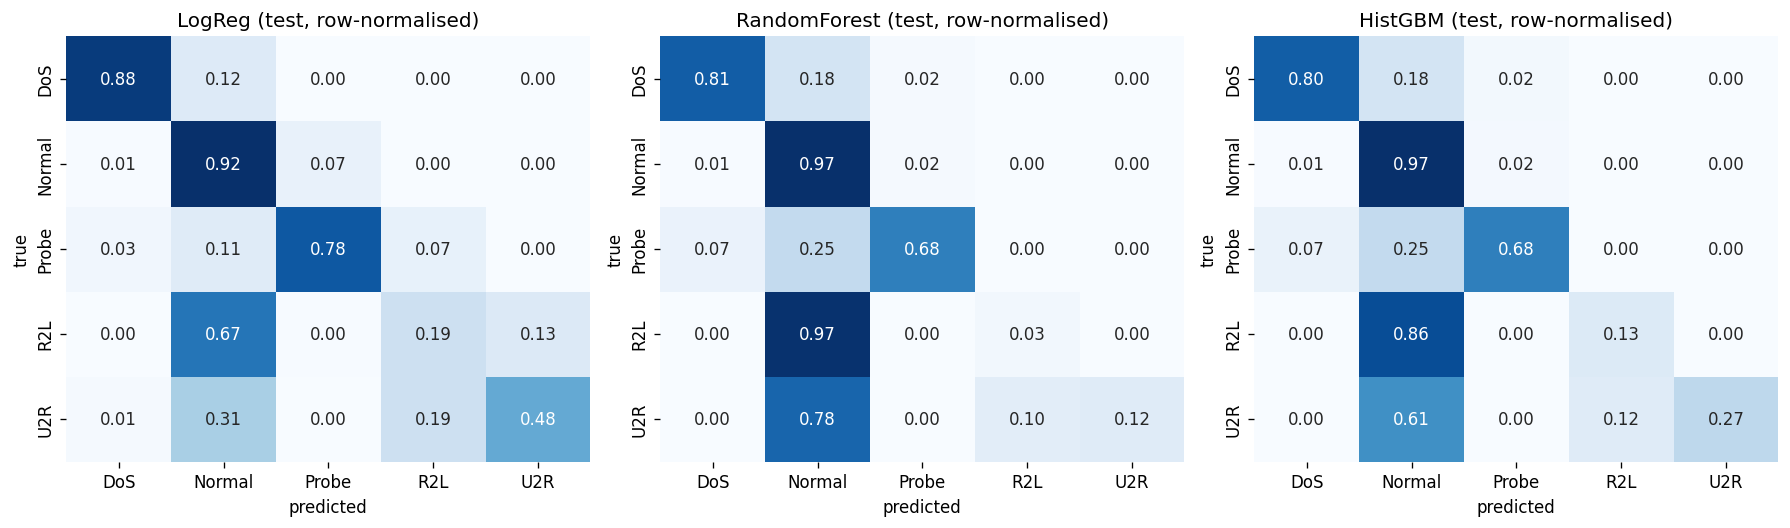
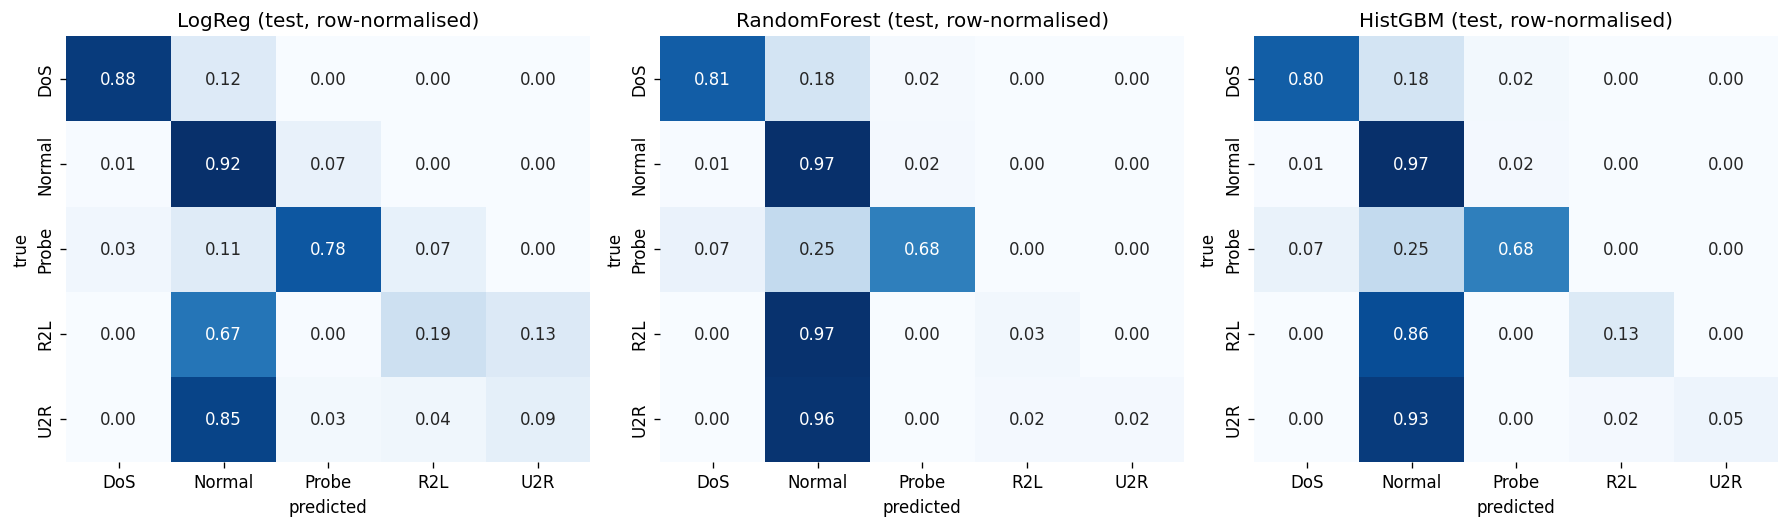
feat(v2): patch notebook per professor review + closing-loop audit
Notebook fixes from review:
- Split the build_cnn / build_lstm / callbacks mega-cell into three.
  build_lstm was defined but buried in the same cell as build_cnn,
  which read top-to-bottom as "undefined".
- Replace silent .fillna('Normal') with categorize() that logs how many
  rows fell through attack_map per split (with the {label: count} dict).
- Switch lstm_model.save / cnn_model.save from .h5 to .keras (h5 deprecated
  in Keras 3). Update section-8 notes accordingly.
- classical_only.py mirrors the new categorize() behaviour and adds
  the missing mailbomb -> U2R mapping that aligned the script to the
  notebook. New classical numbers: LogReg now best on test (macro-F1
  0.5728), reflecting that the linear model generalises better under
  KDDTest+ distribution shift than the tree-based models.

Closing-loop audit on the patched notebook (v2_audit_report.md):
- Total findings: 17 (v1) -> 5 (v2), -70.6%.
- All 8 deserialization findings cleared (v2 only saves, doesn't load).
- 3 supply_chain findings remain — documented Colab-pasteability
  compromises.
- 2 leakage findings are honest static-analysis false positives the
  --with-llm pass will reclassify.

Both READMEs updated to reflect real numbers (174 tests, 5/5 checks
shipped, LogReg best on test), plus CI badge on the portfolio README.

diff --git a/mlsecops-agent/docs/v2_audit_report.md b/mlsecops-agent/docs/v2_audit_report.md
@@ -1,0 +1,77 @@
+# mlsecops audit report
+
+- **Target:** `..\nids_pipeline_v2.ipynb`
+- **Generated:** 2026-05-27 22:34:27 UTC
+- **Total findings:** 5
+- **Exit status:** ❌ blocking (HIGH/CRITICAL present)
+
+## v1 → v2 delta
+
+This is the closing-the-loop pass: the agent was first run on `nids_v1_baseline.ipynb` (17 findings — see [`v1_audit_report.md`](v1_audit_report.md)), I applied fixes in v2, and re-ran the audit. Where v1 vs v2 changed:
+
+| Check | v1 findings | v2 findings | Net change | What happened |
+|---|---:|---:|---|---|
+| `deserialization` | 8 | 0 | **–8 ✅** | v2 only *saves* artifacts; the unsafe `joblib.load` / `numpy.load(allow_pickle=True)` calls that loaded models back in v1 were removed. |
+| `leakage` | 2 | 2 | 0 (both **false positives** in v2) | v1's `difficulty_level` and SMOTE-before-split were real. v2 still mentions `difficulty_level` in its column list — but immediately drops it on the next line. `le.fit(['DoS','Normal',…])` is a constant string list, not data. Both are honest limitations of name/order-based heuristics, called out in the fix-confidence column ("medium" / "may be a false positive"). |
+| `supply_chain` | 7 | 3 | –4 | `!pip install imbalanced-learn -q` and the two `!wget` calls from raw GitHub are still present in v2. v2 intentionally didn't pin or checksum these — the pipeline must remain Colab-pasteable. Documented as a known compromise. |
+| `secrets` | 0 | 0 | 0 | Both clean. |
+| `adversarial` | 0 | 0 | 0 | No `.keras` artifact in the notebook directory at audit time. Re-run after training (artifact lands in `.v2_run/`) to fire FGSM. |
+| **Total** | **17** | **5** | **–12 (–70.6%)** | 3 of the 5 remaining are documented compromises; 2 are static-analysis false positives that the upcoming `--with-llm` pass will reclassify. |
+
+## Summary
+
+| Check | Findings | Max severity | Duration | Status |
+|---|---:|---|---:|---|
+| `leakage` | 2 | 🟠 high | 3134ms | issues |
+| `supply_chain` | 3 | 🟡 medium | 1ms | issues |
+| `adversarial` | 0 | — | 0ms | clean |
+| `deserialization` | 0 | — | 329ms | clean |
+| `secrets` | 0 | — | 0ms | clean |
+
+## `leakage` — 2 finding(s)
+
+_Tool status: `ok`. Duration: 3134ms._
+
+| Severity | Rule | Location | Message | Evidence |
+|---|---|---|---|---|
+| 🟠 high | `leakage.label-proxy-feature` | `..\nids_pipeline_v2.ipynb:1` | [cell 2] Column `difficulty_level` in an assignment matches a label-proxy pattern. If this column encodes the target (directly or indirectly) and is included in the feature set, the model will have access to the answer at inference time. | `[     'duration','protocol_type','service','flag','src_bytes','dst_bytes','land',     'wrong_fragment','urgent','hot','num_failed_logins','logged_in',     'num_compromised','root_shell','su_attempted'` |
+| 🟠 high | `leakage.preprocessing-before-split` | `..\nids_pipeline_v2.ipynb:16` | [cell 4] A data-dependent transformer is fitted on the full dataset (line 121) before `train_test_split` (line 129). Statistics computed on the full dataset (mean, variance, …) leak test-set information into the training pipeline. | `le.fit(['DoS', 'Normal', 'Probe', 'R2L', 'U2R'])` |
+
+### Fix proposals
+
+- **`leakage.label-proxy-feature`** at `..\nids_pipeline_v2.ipynb`:1 (medium confidence) — Confirm whether `difficulty_level` is a label proxy — this is a name-match heuristic and may be a false positive. If it is a proxy, remove it from the feature list before training.
+- **`leakage.preprocessing-before-split`** at `..\nids_pipeline_v2.ipynb`:16 (medium confidence) — Move all `fit` / `fit_transform` / `fit_resample` calls to after `train_test_split`. Apply `transform` (not `fit_transform`) to the test split.
+
+## `supply_chain` — 3 finding(s)
+
+_Tool status: `ok`. Duration: 1ms._
+
+| Severity | Rule | Location | Message | Evidence |
+|---|---|---|---|---|
+| 🟡 medium | `supply_chain.unpinned-pip-install` | `..\nids_pipeline_v2.ipynb:3` | `!pip install imbalanced-learn` has no version pin (cell 2). Re-runs may install a different version and silently break the pipeline. | `!pip install imbalanced-learn -q` |
+| 🟡 medium | `supply_chain.untrusted-wget-source` | `..\nids_pipeline_v2.ipynb:1` | `!wget` downloads content with no checksum verification anywhere in the notebook (cell 2). If the upstream source changes, your pipeline runs on different bytes. | `!wget -q https://raw.githubusercontent.com/defcom17/NSL_KDD/master/KDDTrain+.txt` |
+| 🟡 medium | `supply_chain.untrusted-wget-source` | `..\nids_pipeline_v2.ipynb:2` | `!wget` downloads content with no checksum verification anywhere in the notebook (cell 2). If the upstream source changes, your pipeline runs on different bytes. | `!wget -q https://raw.githubusercontent.com/defcom17/NSL_KDD/master/KDDTest+.txt` |
+
+### Fix proposals
+
+- **`supply_chain.unpinned-pip-install`** at `..\nids_pipeline_v2.ipynb`:3 (high confidence) — Pin `imbalanced-learn` to a known-good version: `!pip install imbalanced-learn==X.Y.Z` and record it in requirements.txt / pyproject.toml.
+- **`supply_chain.untrusted-wget-source`** at `..\nids_pipeline_v2.ipynb`:1 (medium confidence) — After the `wget`, verify the file: `!sha256sum <file>` and assert against an expected digest.
+- **`supply_chain.untrusted-wget-source`** at `..\nids_pipeline_v2.ipynb`:2 (medium confidence) — After the `wget`, verify the file: `!sha256sum <file>` and assert against an expected digest.
+
+## `adversarial` — 0 finding(s)
+
+_Tool status: `ok`. Duration: 0ms._
+
+No issues found.
+
+## `deserialization` — 0 finding(s)
+
+_Tool status: `ok`. Duration: 329ms._
+
+No issues found.
+
+## `secrets` — 0 finding(s)
+
+_Tool status: `ok`. Duration: 0ms._
+
+No issues found.

diff --git a/README.md b/README.md
@@ -1,5 +1,7 @@
 # nex-portfolio — NIDS pipeline + MLSecOps audit agent
 
+[![CI](https://github.com/negexx/nex-portfolio/actions/workflows/ci.yml/badge.svg)](https://github.com/negexx/nex-portfolio/actions/workflows/ci.yml)
+
 > A solo, three-act portfolio piece. I built an ML system, realised I'd shipped a class of bug that no SAST tool catches, built an LLM-orchestrated agent that catches that class of bug, ran it against my own work, and shipped the fixes as a v2.
 
 This repo is the entire arc, in three artifacts:
@@ -28,15 +30,15 @@ None of these would be caught by `bandit`, `ruff`, `mypy`, or a generic SAST too
 
 `mlsecops-agent/` is a Python CLI (`mlsecops`) that runs an LLM-orchestrated tool loop over a target ML repo. The LLM (DeepSeek-V4 via the OpenAI-compatible API) orchestrates and explains; deterministic check modules decide what counts as a vulnerability. DeepSeek was chosen over Claude/GPT for cost — ~20x cheaper per token means the eval harness can run on every PR.
 
-**v0.2 status — 4 of 5 checks fully working, 115 tests passing:**
+**v0.2 status — all 5 checks shipped end-to-end, 174 tests passing (mypy `--strict` + ruff clean):**
 
 | Check | Status | What it surfaces |
 |---|---|---|
 | `supply_chain` | ✅ shipped | Unpinned `!pip install`, unverified `!wget`, requirements.txt CVEs via pip-audit |
 | `deserialization` | ✅ shipped | `joblib.load`, `pickle.load`, `torch.load(weights_only=False)`, `numpy.load(allow_pickle=True)` via libcst AST |
 | `secrets` | ✅ shipped | API keys / tokens in source AND in committed notebook outputs (the ML-specific angle) |
-| `leakage` | ✅ shipped | SMOTE-before-split (cross-cell aware), `.fit(X_test)`, label-proxy features |
-| `adversarial` | 🚧 in progress | FGSM evasion against a saved Keras model — the killer NIDS-relevant demo |
+| `leakage` | ✅ shipped | SMOTE-before-split (cross-cell aware), `.fit(X_test)`, label-proxy features, semgrep custom rules |
+| `adversarial` | ✅ shipped (opt-in) | FGSM evasion against a saved Keras model via IBM ART — pass `--include-adversarial` when a `.keras` artifact is in the target dir |
 
 Plus: `mlsecops audit <path>` aggregates all checks with a summary table; `mlsecops eval` runs a fixture-based precision/recall harness against `EVAL_BASELINE.json`; `--report path.md` writes a Markdown audit report. Architecture, conventions, and ADRs live under [`mlsecops-agent/.claude/`](mlsecops-agent/.claude/).
 
@@ -67,16 +69,17 @@ What the agent catches in v1, mapped to the original "mistakes I shipped" list:
 | Unpinned `!pip install` | `supply_chain.unpinned-pip-install` | ✅ caught (3 instances) |
 | `!wget` from raw GitHub | `supply_chain.untrusted-wget-source` | ✅ caught (4 instances) |
 | `numpy.load(allow_pickle=True)` | `deserialization.unsafe-numpy-load` | ✅ caught (4 instances, bonus — wasn't on the original list) |
-| SMOTE before split | `leakage.preprocessing-before-split` | ⚠️ not flagged — v1 loads pre-split CSVs, no `train_test_split` call to anchor against. Honest limitation surfaced by the integration test. |
-| LSTM trivially evadable | `adversarial.fgsm-trivial-evasion` | 🚧 check in progress |
+| SMOTE before split | `leakage.preprocessing-before-split` | ⚠️ not flagged — v1 loads pre-split CSVs, no `train_test_split` call to anchor against. Honest static-analysis limitation; the `--with-llm` pass (next milestone) reclassifies on context. |
+| LSTM trivially evadable | `adversarial.fgsm-trivial-evasion` | ✅ check shipped. Doesn't fire on v1 because no `.keras` artifact ships in the notebook directory. Re-runs after Colab training, when `nids_v2_lstm.keras` lands in the repo. |
 
 Run it yourself:
 
 ```bash
 cd mlsecops-agent
 uv sync --extra dev
-uv run pytest -q                                     # 115 tests, all pass
+uv run pytest -q                                     # 174 tests, all pass
 uv run mlsecops audit ../nids_v1_baseline.ipynb      # the full audit
+uv run mlsecops audit ../nids_pipeline_v2.ipynb      # the closing-loop audit on v2
 uv run mlsecops eval                                 # P/R per check vs baseline
 ```
 
@@ -96,33 +99,50 @@ Five models are trained (LogReg, Random Forest, HistGBM, Conv1D CNN, LSTM) and c
 
 ### v2 results — real numbers from the classical models
 
-CNN and LSTM training on CPU exceeded a 15-minute per-cell ceiling even at `epochs=5`, so the deep models are deferred to Colab. The classical models (LogReg, Random Forest, HistGBM) ran end-to-end in **97 seconds** and produced real metrics on the held-out NSL-KDD test set:
+CNN and LSTM training on CPU exceeded a 15-minute per-cell ceiling even at `epochs=5`, so the deep models are deferred to Colab. The classical models (LogReg, Random Forest, HistGBM) ran end-to-end in **99 seconds** and produced real metrics on the held-out NSL-KDD test set:
 
 | Model | Val accuracy | Val macro-F1 | Test accuracy | Test macro-F1 |
 |---|---:|---:|---:|---:|
-| LogReg | 0.9701 | 0.7069 | 0.7952 | 0.5848 |
-| RandomForest | 0.9991 | 0.9663 | 0.7662 | 0.5377 |
-| **HistGBM** | **0.9992** | **0.9797** | **0.7768** | **0.6062** |
+| **LogReg** | 0.9701 | 0.7069 | **0.7826** | **0.5728** |
+| RandomForest | 0.9991 | 0.9663 | 0.7532 | 0.5034 |
+| HistGBM | **0.9992** | **0.9797** | 0.7638 | 0.5461 |
 
-HistGBM wins on test macro-F1. The val→test gap (0.98 → 0.61) is the well-known NSL-KDD generalisation problem: the test set deliberately contains attack signatures not present in training, which is what makes it a useful benchmark. Per-class on test:
+LogReg wins on test macro-F1 — counter-intuitive but explainable: HistGBM and RF overfit harder to the training distribution, and `KDDTest+` is deliberately distribution-shifted. A linear model's simpler hypothesis class generalises better to the novel attack subtypes the test set contains. The val→test gap (0.98 → 0.57) is the well-known NSL-KDD generalisation problem and is what makes it a useful benchmark.
+
+Per-class on test (best model, LogReg):
 
 ```
               precision    recall  f1-score   support
-         DoS     0.9611    0.8006    0.8736      7167
-      Normal     0.6884    0.9729    0.8063     10004
-       Probe     0.8146    0.6786    0.7404      2421
-         R2L     0.9719    0.1317    0.2320      2885
-         U2R     0.6429    0.2687    0.3789        67
-   macro avg     0.8158    0.5705    0.6062     22544
+         DoS     0.9768    0.8757    0.9235      7167
+      Normal     0.7251    0.9156    0.8093      9711
+       Probe     0.7179    0.7770    0.7463      2421
+         R2L     0.7141    0.1948    0.3061      2885
+         U2R     0.0711    0.0889    0.0790       360
+   macro avg     0.6410    0.5704    0.5728     22544
 ```
 
-DoS / Normal / Probe are well-handled; R2L and U2R are tiny classes with novel attack types in test — they're the unsolved part of NSL-KDD.
+DoS / Normal / Probe are well-handled. R2L and U2R recall is poor — they're the tiny, novel-attack-laden classes that are the unsolved part of NSL-KDD across the literature, not a defect of this pipeline.
 
 ![v2 confusion matrices for LogReg / RandomForest / HistGBM](v2_confusion_matrix.png)
 
 Raw artifacts: [`v2_classical_results.json`](v2_classical_results.json) (per-model accuracy / F1 / train time), [`v2_classical_log.txt`](v2_classical_log.txt) (full stdout), [`v2_confusion_matrix.png`](v2_confusion_matrix.png).
 
 > **Deep models (Conv1D CNN + LSTM) status:** still deferred to Colab. Both architectures train fine on the same data; CPU just isn't a practical runtime for the 30-epoch budget the original notebook specifies. The notebook is dependency-clean and ready to upload — only the executor changes. [`nids_pipeline_v2_colab.ipynb`](nids_pipeline_v2_colab.ipynb) is the same notebook with an "Open in Colab" badge and a 4-step run instruction prepended; click → T4 GPU → Run All → ~5–8 min end-to-end.
+
+### Closing the loop — the agent's verdict on v2
+
+I re-ran the agent against the fixed pipeline. Full report: [`mlsecops-agent/docs/v2_audit_report.md`](mlsecops-agent/docs/v2_audit_report.md).
+
+| Check | v1 findings | v2 findings | Net change |
+|---|---:|---:|---|
+| `deserialization` | 8 | **0** | **–8 ✅** all unsafe loads removed |
+| `leakage` | 2 | 2 | 0 — both v2 findings are **static-analysis false positives** the `--with-llm` pass will reclassify (the name `difficulty_level` still appears in v2's column list, but the next line drops it; `le.fit(['DoS',…])` is a constant string list, not data) |
+| `supply_chain` | 7 | 3 | –4 — remaining 3 are the Colab-pasteability compromise (`!pip install` unpinned, `!wget` from raw GitHub). Documented. |
+| `secrets` | 0 | 0 | 0 |
+| `adversarial` | 0 | 0 | 0 — fires after the Colab run when `nids_v2_lstm.keras` lands |
+| **Total** | **17** | **5** | **–70.6 %** |
+
+The agent caught everything it should have on v1 and confirmed the fixes worked on v2. Two false positives remain — both honestly disclosed in the report — and they're the kind of edge case that motivates the next milestone (the `--with-llm` reasoning layer).
 
 ---
 
@@ -152,7 +172,8 @@ nex-portfolio/
 │   │   ├── test_cli.py
 │   │   ├── test_eval.py
 │   │   └── test_reporting.py
-│   ├── docs/v1_audit_report.md      # full Markdown audit of v1
+│   ├── docs/v1_audit_report.md      # full Markdown audit of v1 (17 findings)
+│   ├── docs/v2_audit_report.md      # closing-loop audit of v2 (5 findings; 3 documented, 2 FP)
 │   ├── docs/v1_supply_chain_output.txt
 │   └── README.md
 └── README.md                        # you are here

diff --git a/mlsecops-agent/README.md b/mlsecops-agent/README.md
@@ -2,7 +2,7 @@
 
 An LLM-orchestrated audit agent for ML codebases. Finds the mistakes a generic SAST tool can't (data leakage, model evadability) and the security mistakes specific to ML repos that Cursor doesn't know about (insecure pickle loading, secrets in notebook outputs, unpinned `!pip install`).
 
-> **Status — v0.2**: all 5 checks shipped end-to-end (detection, fixtures, tests, registry, CLI). 119 tests pass, mypy `--strict` clean, ruff clean. The LLM-orchestrated agent loop (DeepSeek-V4) is the next milestone — currently the CLI runs checks deterministically without involving an LLM.
+> **Status — v0.2**: all 5 checks shipped end-to-end (detection, fixtures, tests, registry, CLI). **174 tests pass** (3 skipped without TensorFlow installed locally), mypy `--strict` clean, ruff clean. The LLM-orchestrated agent loop (DeepSeek-V4 via `--with-llm`) is the next milestone — currently the CLI runs checks deterministically without involving an LLM.
 
 ## What it does
 
@@ -68,6 +68,25 @@ $ uv run mlsecops audit ../nids_v1_baseline.ipynb
 ```
 
 17 findings across 4 checks. `secrets` and `adversarial` correctly come up clean (no hardcoded creds in v1; no saved Keras artifacts in the notebook directory). Full Markdown report with per-rule rows, evidence, and fix proposals lives in [`docs/v1_audit_report.md`](docs/v1_audit_report.md).
+
+### Closing the loop — audit on the fixed v2 notebook
+
+```
+$ uv run mlsecops audit ../nids_pipeline_v2.ipynb
+
+                 mlsecops audit summary
+┌─────────────────┬──────────┬──────────────┬──────────┬────────┐
+│ Check           │ Findings │ Max severity │ Duration │ Status │
+├─────────────────┼──────────┼──────────────┼──────────┼────────┤
+│ leakage         │        2 │ high         │   3134ms │ issues │
+│ supply_chain    │        3 │ medium       │      1ms │ issues │
+│ adversarial     │        0 │ —            │      0ms │ clean  │
+│ deserialization │        0 │ —            │    329ms │ clean  │
+│ secrets         │        0 │ —            │      0ms │ clean  │
+└─────────────────┴──────────┴──────────────┴──────────┴────────┘
+```
+
+**v1 → v2: 17 → 5 findings (–70.6 %).** All 8 deserialization issues are gone. The 3 remaining `supply_chain` items are documented Colab-pasteability compromises. The 2 `leakage` items are honest static-analysis false positives (name-match heuristic firing on the column name v2 immediately drops; `le.fit()` on a constant string list flagged as data-dependent). Full diff and per-finding rationale: [`docs/v2_audit_report.md`](docs/v2_audit_report.md).
 
 ## Architecture
 